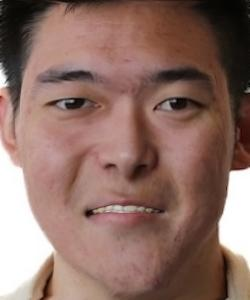
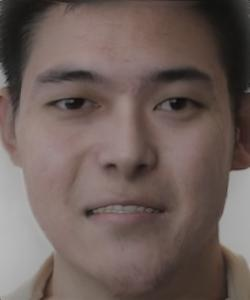
finished site

diff --git a/index.html b/index.html
@@ -1,0 +1,348 @@
+<!DOCTYPE html>
+<html lang="en">
+<head>
+    <meta charset="UTF-8">
+    <meta http-equiv="X-UA-Compatible" content="IE=edge">
+    <meta name="viewport" content="width=device-width, initial-scale=1.0">
+    <title>CS 180 Project 3</title>
+</head>
+<body style="font-family: Verdana;">
+    <center><h1>CS 180 Project 3 - Geoffrey Xiang</h1></center>
+    <h2>Part 1: Defining Correspondencies</h2>
+    <p>
+	To begin morphing images, we need to first define corresponding points across the two images. Using <a href="https://cal-cs180.github.io/fa23/hw/proj3/tool.html">this tool</a>, I manually selected corresponding points in the same order across two images. I used key facial features such as the eyes, nose, and mouth in order to base my correspondences. 
+    </p>
+    <div class="container">
+	<figure>
+	    <img src="assets/geoxiang2.jpg">
+	    <figcaption>Geoffrey</figcaption>
+	</figure>
+	<figure>
+	    <img src="assets/1/geoxiang2_points.jpg"/>
+	    <figcaption>Geoffrey with points</figcaption>
+	</figure>
+	<figure>
+	    <img src="assets/1/vincent_points.jpg"/>
+	    <figcaption>Vincent with points</figcaption>
+	</figure>
+	<figure>
+	    <img src="assets/vincent.jpg"/>
+	    <figcaption>Vincent</figcaption>
+	</figure>
+    </div>
+    <div class="container">
+	<figure>
+	    <img src="assets/geoxiang.jpg">
+	    <figcaption>Geoffrey</figcaption>
+	</figure>
+	<figure>
+	    <img src="assets/1/geoxiang_points.jpg"/>
+	    <figcaption>Geoffrey with points</figcaption>
+	</figure>
+	<figure>
+	    <img src="assets/1/sadie_points.jpg"/>
+	    <figcaption>Sadie with points</figcaption>
+	</figure>
+	<figure>
+	    <img src="assets/sadie.jpg"/>
+	    <figcaption>Sadie</figcaption>
+	</figure>
+    </div>
+    <h2>Part 2: Computing the "Mid-Way Face"</h2>
+    <p>
+	We can now create midway faces! Using the labeled correspondence points, I ran the Delaunay algorithm to create triangular regions.</p>
+    <div class="container">
+	<figure>
+	    <img src="assets/geoxiang2.jpg">
+	    <figcaption>Geoffrey</figcaption>
+	</figure>
+	<figure>
+	    <img src="assets/1/geoxiang2_triangles.jpg"/>
+	    <figcaption>Geoffrey with triangles</figcaption>
+	</figure>
+	<figure>
+	    <img src="assets/1/vincent_triangles.jpg"/>
+	    <figcaption>Vincent with triangles</figcaption>
+	</figure>
+	<figure>
+	    <img src="assets/vincent.jpg"/>
+	    <figcaption>Vincent</figcaption>
+	</figure>
+    </div>
+    <div class="container">
+	<figure>
+	    <img src="assets/geoxiang.jpg">
+	    <figcaption>Geoffrey</figcaption>
+	</figure>
+	<figure>
+	    <img src="assets/1/geoxiang_triangles.jpg"/>
+	    <figcaption>Geoffrey with triangles</figcaption>
+	</figure>
+	<figure>
+	    <img src="assets/1/sadie_triangles.jpg"/>
+	    <figcaption>Sadie with triangles</figcaption>
+	</figure>
+	<figure>
+	    <img src="assets/sadie.jpg"/>
+	    <figcaption>Sadie</figcaption>
+	</figure>
+    </div>
+    <p>
+	We can now use the triangles to create midway faces! We first warp the face shape to an average shape. This involves averaging the correspondence points across both images, then computing a triangulation for the average points. This enables us to compute a transformation matrix between the average shape and the shapes of both images. Using this transformation matrix to inverse warp color values from each of the two source images, we can then average the two values per pixel in order to cross-dissolve the images.
+    </p>
+    <div class="container">
+	<figure>
+	    <img src="assets/geoxiang2.jpg">
+	    <figcaption>Geoffrey</figcaption>
+	</figure>
+	<figure>
+	    <img src="assets/2/vincent+geoxiang2.jpg"/>
+	    <figcaption>Gincent</figcaption>
+	</figure>
+	<figure>
+	    <img src="assets/vincent.jpg"/>
+	    <figcaption>Vincent</figcaption>
+	</figure>
+    </div>
+    <div class="container">
+	<figure>
+	    <img src="assets/geoxiang.jpg">
+	    <figcaption>Geoffrey</figcaption>
+	</figure>
+	<figure>
+	    <img src="assets/2/geoxiang+sadie.jpg"/>
+	    <figcaption>Gadie</figcaption>
+	</figure>
+	<figure>
+	    <img src="assets/sadie.jpg"/>
+	    <figcaption>Sadie</figcaption>
+	</figure>
+    </div>
+    <p>
+	There are some pretty noticeable differences between each of the two images. Relative to me (Geoffrey), Vincent's mouth is more open (less teeth), and his eyes are tilted upwards. Sadie has long hair. These differences lead to slight discrepencies in the midway images that may not look super natural. The majority of the features across the faces do seem to be properly morphed together though! I got a slightly more natural-looking result from these two EECS faculty members:
+    </p>
+    <div class="container">
+	<figure>
+	    <img src="assets/abbeel.jpg">
+	    <figcaption>Abbeel</figcaption>
+	</figure>
+	<figure>
+	    <img src="assets/2/abbeel+arcak.jpg"/>
+	    <figcaption>Abbak</figcaption>
+	</figure>
+	<figure>
+	    <img src="assets/arcak.jpg"/>
+	    <figcaption>Arcak</figcaption>
+	</figure>
+    </div>
+    <h2>Part 3: The Morph Sequence</h2>
+    <p>
+	With a very similar process used to compute midway faces, we can now create a morph animation between two faces! Instead of one average image, we now make 50 intermediate images, each warping and cross-dissolving an incremental amount between the two images. The results use 1/50 increments for warping and cross-dissolve, leading to 50 frames. This creates a seamless transition between each source image to destination image.
+    </p>
+    <div class="container">
+	<figure>
+	    <img src="assets/geoxiang2.jpg">
+	    <figcaption>Geoffrey</figcaption>
+	</figure>
+	<figure>
+	    <img src="assets/3/vincent_to_geoxiang2.gif"/>
+	    <figcaption>Gincent</figcaption>
+	</figure>
+	<figure>
+	    <img src="assets/vincent.jpg"/>
+	    <figcaption>Vincent</figcaption>
+	</figure>
+    </div>
+    <div class="container">
+	<figure>
+	    <img src="assets/sadie.jpg"/>
+	    <figcaption>Sadie</figcaption>
+	</figure>
+	<figure>
+	    <img src="assets/3/geoxiang_to_sadie.gif"/>
+	    <figcaption>Gadie</figcaption>
+	</figure>
+	<figure>
+	    <img src="assets/geoxiang.jpg">
+	    <figcaption>Geoffrey</figcaption>
+	</figure>
+    </div>
+    <div class="container">
+	<figure>
+	    <img src="assets/arcak.jpg"/>
+	    <figcaption>Arcak</figcaption>
+	</figure>
+	<figure>
+	    <img src="assets/3/abbeel_to_arcak.gif"/>
+	    <figcaption>Abbak</figcaption>
+	</figure>
+
+	<figure>
+	    <img src="assets/abbeel.jpg">
+	    <figcaption>Abbeel</figcaption>
+	</figure>
+    </div>
+    <h2>Part 4: The "Mean Face" of a Population</h2>
+    <p>
+	Now, given a large amount of labeled faces from a popuation, we can get the average face. Similar to part 2 when we computed the midway face between two images, we can scale this process for hundreds of images. We first find the average set of points to compute Delaunay triangles, then warp each image's triangluation to the average triangulation we just computed. Then using the same inverse warping process to extract pixel values from each of the hundreds of images, we can average all of those values per pixel to get the "mean face" of the population! I used the <a href="https://fei.edu.br/~cet/facedatabase.html">FEI dataset</a> to compute the average face and separated the population into smiling and neutral expressions. We can see that the area around the faces is pretty blurry, likely due to how the images have greatly varying backgrounds and details outside the facial region. 
+    </p>
+    <div class="container">
+	<figure>
+	    <img src="assets/4/fei_average_im_neutral.jpg"/>
+	    <figcaption>Average Neutral Face</figcaption>
+	</figure>
+	<figure>
+	    <img src="assets/4/fei_average_im_smiling.jpg"/>
+	    <figcaption>Average Smiling Face</figcaption>
+	</figure>
+    </div>
+    <p>
+	Taking a closer look at individual images within the datset, we can warp an image to the average facial expression for the corresponding subpopulation. Keep in mind the average of all of the warped faces led us to our "mean faces" earlier. 
+    </p>
+    <div class="container">
+	<figure>
+	    <img src="assets/2a.jpg"/>
+	    <figcaption>Original Neutral</figcaption>
+	</figure>
+	<figure>
+	    <img src="assets/4/2a_warped_to_avg.jpg"/>
+	    <figcaption>Warped to Average Neutral</figcaption>
+	</figure>
+	<figure>
+	    <img src="assets/2b.jpg"/>
+	    <figcaption>Original Smile</figcaption>
+	</figure>
+	<figure>
+	    <img src="assets/4/2b_warped_to_avg.jpg"/>
+	    <figcaption>Warped to Average Smile</figcaption>
+	</figure>
+    </div>
+    <div class="container">
+	<figure>
+	    <img src="assets/48a.jpg"/>
+	    <figcaption>Original Neutral</figcaption>
+	</figure>
+	<figure>
+	    <img src="assets/4/48a_warped_to_avg.jpg"/>
+	    <figcaption>Warped to Average Neutral</figcaption>
+	</figure>
+	<figure>
+	    <img src="assets/48b.jpg"/>
+	    <figcaption>Original Smile</figcaption>
+	</figure>
+	<figure>
+	    <img src="assets/4/48b_warped_to_avg.jpg"/>
+	    <figcaption>Warped to Average Smile</figcaption>
+	</figure>
+    </div>
+    <div class="container">
+	<figure>
+	    <img src="assets/108a.jpg"/>
+	    <figcaption>Original Neutral</figcaption>
+	</figure>
+	<figure>
+	    <img src="assets/4/108a_warped_to_avg.jpg"/>
+	    <figcaption>Warped to Average Neutral</figcaption>
+	</figure>
+	<figure>
+	    <img src="assets/108b.jpg"/>
+	    <figcaption>Original Smile</figcaption>
+	</figure>
+	<figure>
+	    <img src="assets/4/108b_warped_to_avg.jpg"/>
+	    <figcaption>Warped to Average Smile</figcaption>
+	</figure>
+    </div>
+    <p>
+	We can go even further with this and morph my own face with the average face of the FEI dataset. Since I'm smiling in my photo, I chose to morph with the smiling subpopulation. These are the results of morphing my face to the average smile, and morphing the average smile to my face. 
+    </p>
+    <div class="container">
+	<figure>
+	    <img src="assets/geoxiang3.jpg"/>
+	    <figcaption>Geoffrey</figcaption>
+	</figure>
+	<figure>
+	    <img src="assets/4/geoxiang_to_fei.jpg"/>
+	    <figcaption>Geoffrey as Average Smile</figcaption>
+	</figure>
+    </div>
+    <div class="container">
+	<figure>
+	    <img src="assets/4/fei_average_im_smiling.jpg"/>
+	    <figcaption>Average Smile</figcaption>
+	</figure>
+	<figure>
+	    <img src="assets/4/fei_to_geoxiang.jpg"/>
+	    <figcaption>Average Smile as Geoffrey</figcaption>
+	</figure>
+    </div>
+    <h2>Part 5: Caricatures: Extrapolating from the Mean</h2>
+    <p>
+	Again using the FEI dataset mean faces, we can produce caricatures through extrapolation. By giving the correlation points in my image a weight of 1.5 and the correlation points in the average FEI smile a weight of -0.5, I can warp my face into an image that more heavily accentuates the features of my face compared to the FEI dataset smiles. Since the dataset is composed to Brazilian faces and I'm Chinese, the resulting image definitely exaggerates the differences.
+    </p>
+    <div class="container">
+	<figure>
+	    <img src="assets/geoxiang3.jpg"/>
+	    <figcaption>Geoffrey</figcaption>
+	</figure>
+	<figure>
+	    <img src="assets/5/geoxiang3_caricature.jpg"/>
+	    <figcaption>Made in China Geoffrey</figcaption>
+	</figure>
+    </div>
+    <h2>Bells and Whistles: Smile Removal</h2>
+    <p>
+	The FEI dataset conveniently allowed us to compute the average neutral facial expression. Since the current image of myself is smiling, we can use that to wipe off my smile. We can achieve this with a direct warp with the average neutral expression. However, we can go further and cross dissolve with the average neutral expression (which just morphs the appearance). Combining the two both removes my smile and changes my appearance to be closer to Brazilian. Since the neutral expression generally involves no teeth and my original image has teeth, there will still be remnants of them in the morphed image. 
+    </p>
+    <div class="container">
+	<figure>
+	    <img src="assets/geoxiang3.jpg"/>
+	    <figcaption>Geoffrey</figcaption>
+	</figure>
+	<figure>
+	    <img src="assets/4/fei_average_im_neutral.jpg"/>
+	    <figcaption>Average Neutral Expression</figcaption>
+	</figure>
+    </div>
+    <div class="container">
+	<figure>
+	    <img src="assets/5/geoxiang3_neutral_shape.jpg"/>
+	    <figcaption>Shape Morph</figcaption>
+	</figure>
+	<figure>
+	    <img src="assets/5/geoxiang3_neutral_appearance.jpg"/>
+	    <figcaption>Appearance Morph</figcaption>
+	</figure>
+	<figure>
+	    <img src="assets/5/geoxiang3_neutral.jpg"/>
+	    <figcaption>Shape & Appearance Morph</figcaption>
+	</figure>
+    </div>
+</body>
+<style>
+    .container {
+	display: flex;
+	justify-content: center;
+	align-items: center;
+    }
+
+    figure {
+	display: table;
+	margin-left: 5px;
+	margin-right: 5px;
+    }
+
+    figcaption {
+	display: table-caption;
+	caption-side: bottom;
+	text-align: center;
+	font-size: 14px;
+    }
+
+    img {
+	max-height: 250px;
+	max-width: 250px;
+	border: 1px solid black;
+    }
+</style>
+</html>
